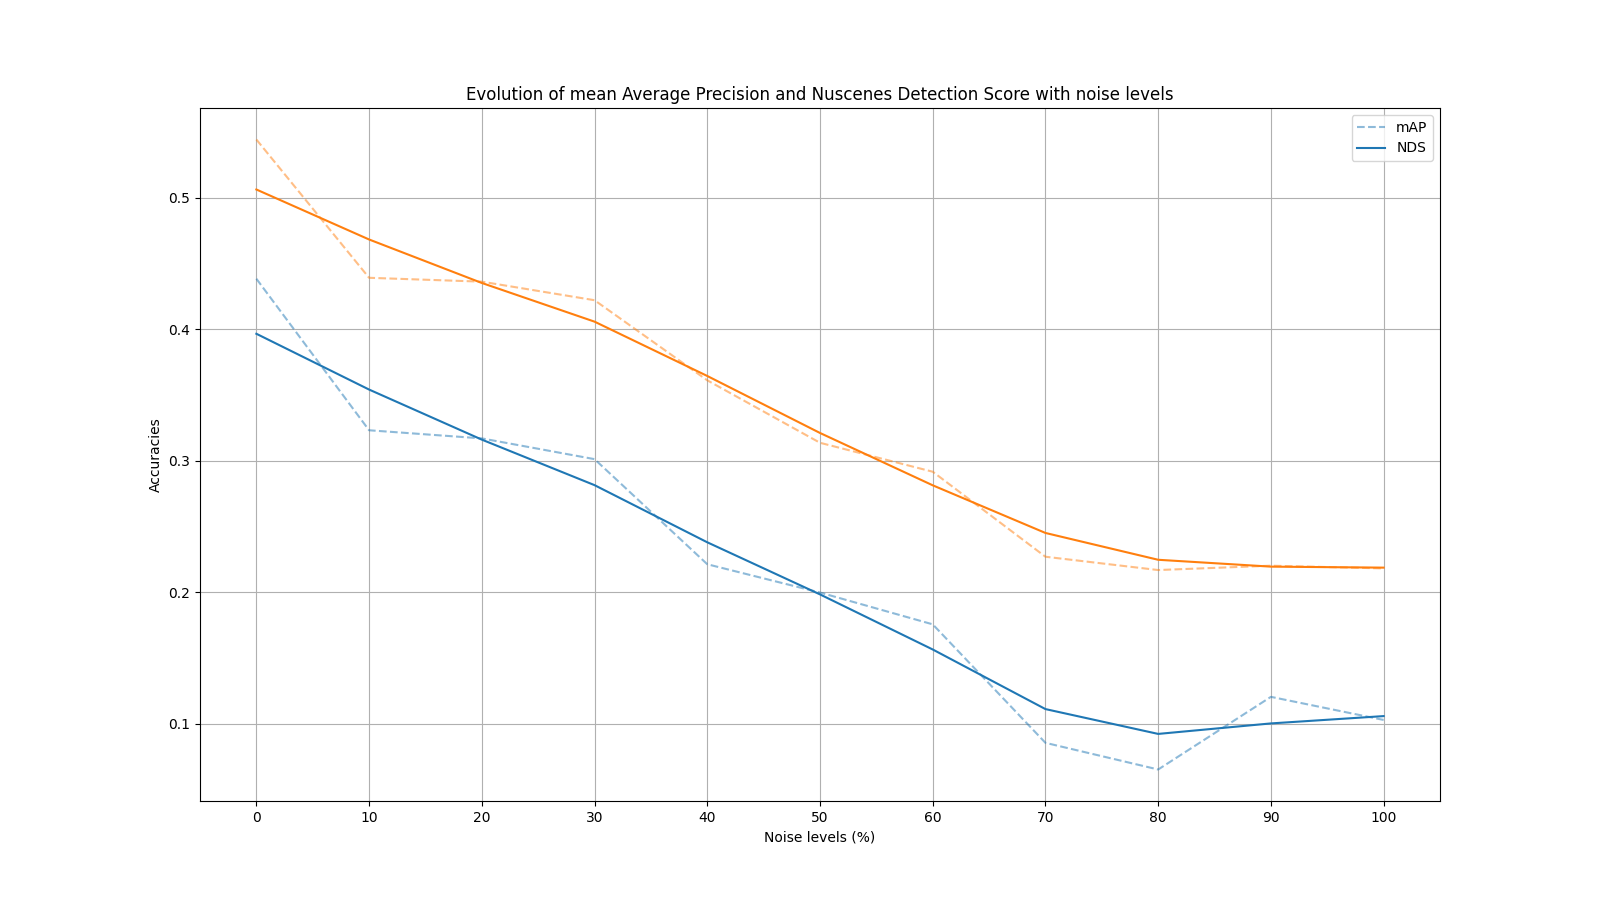
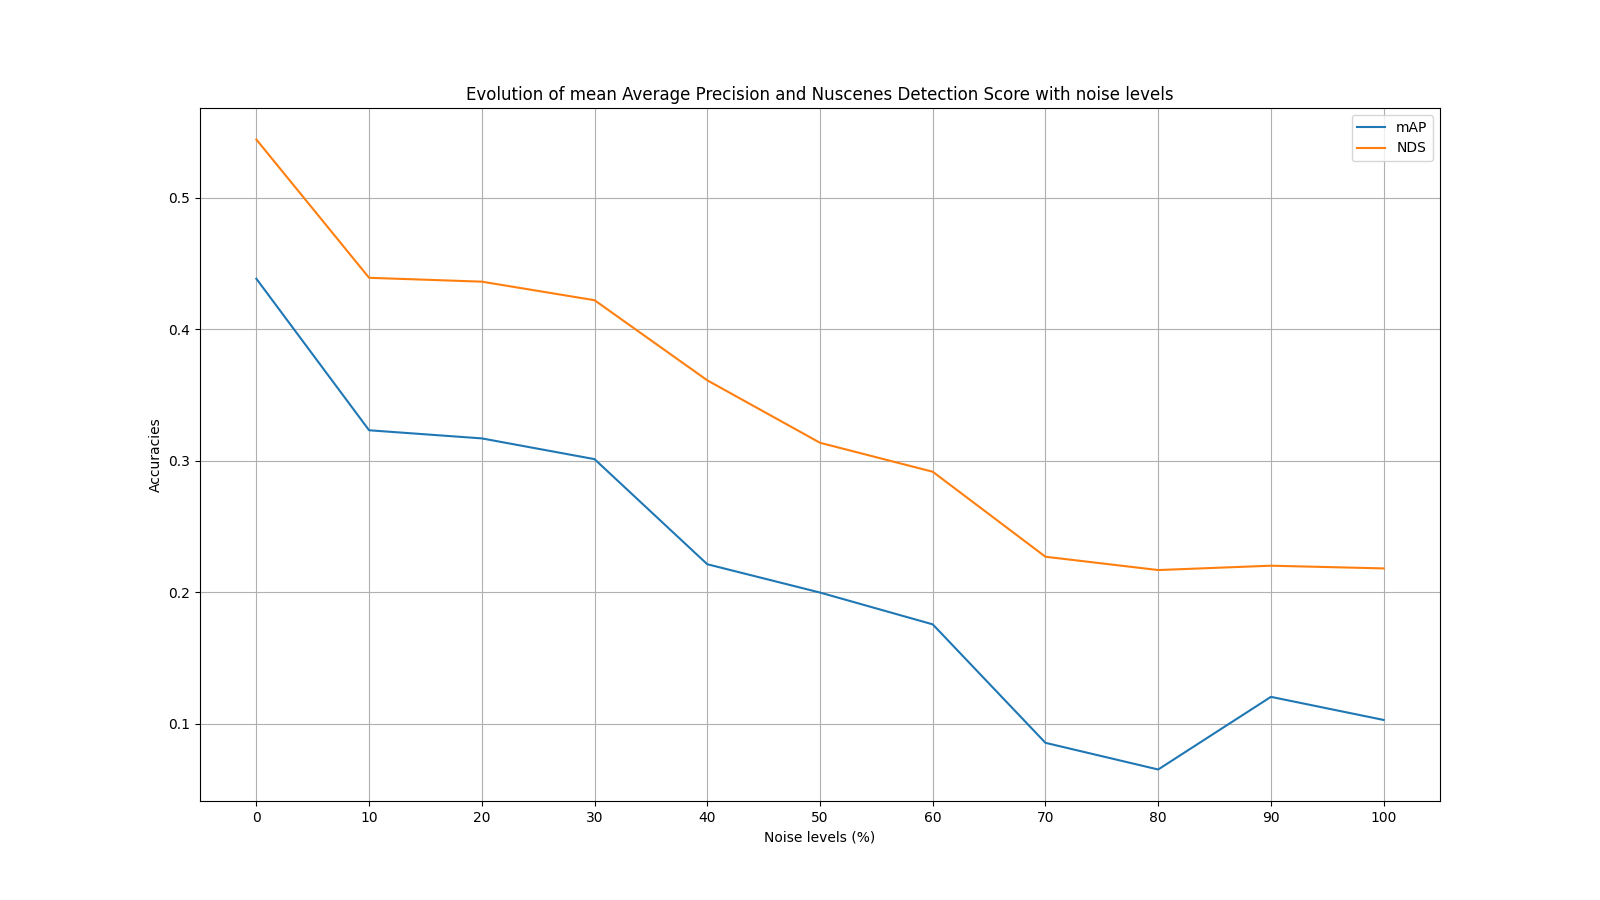
changed frontier output plots

diff --git a/data/viz_CRN_frontier.py b/data/viz_CRN_frontier.py
@@ -44,7 +44,7 @@ def accumulate_results(sensor):
     return mAP_list, NDS_list
 
 
-def create_figs(mAP_list, NDS_list, sensor):
+def create_figs(mAP_list, NDS_list, sensor, interp=False):
     outfolder=os.path.join('.','frontier_outputs','viz')
 
     # defining noise levels axis
@@ -52,22 +52,24 @@ def create_figs(mAP_list, NDS_list, sensor):
 
     ## mAP only
     plt.figure(figsize=(16, 9))
-
-    plt.plot(n_lvls, mAP_list, linestyle='--', color='tab:blue', alpha=0.5)
     
-    # n_lvls_smooth = np.linspace(0, 100, 100)  # 300 points for smoothness
-    # spline = make_interp_spline(n_lvls, mAP_list, k=2)
-    # mAP_list_smooth = spline(n_lvls_smooth)    
-    # plt.plot(n_lvls_smooth, mAP_list_smooth, linestyle='--', color='tab:blue', alpha=0.5)
-    mAP_list_smooth = gaussian_filter1d(mAP_list, sigma=1)
-    plt.plot(n_lvls, mAP_list_smooth, linestyle='-', color='tab:blue', alpha=1)
-    
+    if interp:
+        plt.plot(n_lvls, mAP_list, linestyle='--', color='tab:blue', alpha=0.5)
+        
+        # n_lvls_smooth = np.linspace(0, 100, 100)  # 300 points for smoothness
+        # spline = make_interp_spline(n_lvls, mAP_list, k=2)
+        # mAP_list_smooth = spline(n_lvls_smooth)    
+        # plt.plot(n_lvls_smooth, mAP_list_smooth, linestyle='--', color='tab:blue', alpha=0.5)
+        mAP_list_smooth = gaussian_filter1d(mAP_list, sigma=1)
+        plt.plot(n_lvls, mAP_list_smooth, linestyle='-', color='tab:blue', alpha=1)
+        plt.legend(['mAP','smoothed_mAP'])
+    else:
+        plt.plot(n_lvls, mAP_list, linestyle='-', color='tab:blue')
 
     plt.title('Evolution of mean Average Precision with noise levels')
     plt.xlabel("Noise levels (%)")
     plt.ylabel("mAP")
 
-    plt.legend(['mAP','smoothed_mAP'])
     plt.grid(True)
     plt.xticks(n_lvls)
     # plt.yticks([0,0.1,0.2,0.3,0.4,0.5,0.6,0.7,0.8,0.9,1])
@@ -79,21 +81,24 @@ def create_figs(mAP_list, NDS_list, sensor):
     ## NDS only
     plt.figure(figsize=(16, 9))
 
-    plt.plot(n_lvls, NDS_list, linestyle='--', color='tab:orange', alpha=0.5)
+    if interp:
+        plt.plot(n_lvls, NDS_list, linestyle='--', color='tab:orange', alpha=0.5)
     
-    # n_lvls_smooth = np.linspace(0, 100, 100)  # 300 points for smoothness
-    # spline = make_interp_spline(n_lvls, NDS_list, k=2)
-    # NDS_list_smooth = spline(n_lvls_smooth)    
-    # plt.plot(n_lvls_smooth, NDS_list_smooth, linestyle='--', color='tab:blue', alpha=0.5)
-    NDS_list_smooth = gaussian_filter1d(NDS_list, sigma=1)
-    plt.plot(n_lvls, NDS_list_smooth, linestyle='-', color='tab:orange', alpha=1)
-    
+        # n_lvls_smooth = np.linspace(0, 100, 100)  # 300 points for smoothness
+        # spline = make_interp_spline(n_lvls, NDS_list, k=2)
+        # NDS_list_smooth = spline(n_lvls_smooth)    
+        # plt.plot(n_lvls_smooth, NDS_list_smooth, linestyle='--', color='tab:blue', alpha=0.5)
+        NDS_list_smooth = gaussian_filter1d(NDS_list, sigma=1)
+        plt.plot(n_lvls, NDS_list_smooth, linestyle='-', color='tab:orange', alpha=1)
+        plt.legend(['NDS','smoothed_NDS'])
+    else:
+        plt.plot(n_lvls, NDS_list, linestyle='-', color='tab:orange', alpha=1)
+
 
     plt.title('Evolution of Nuscenes Detection Score with noise levels')
     plt.xlabel("Noise levels (%)")
     plt.ylabel("NDS")
 
-    plt.legend(['NDS','smoothed_NDS'])
     plt.grid(True)
     plt.xticks(n_lvls)
     # plt.yticks([0,0.1,0.2,0.3,0.4,0.5,0.6,0.7,0.8,0.9,1])
@@ -109,21 +114,24 @@ def create_figs(mAP_list, NDS_list, sensor):
     # plt.plot(n_lvls,mAP_list)
     # plt.plot(n_lvls,NDS_list)
 
-    plt.plot(n_lvls, mAP_list, linestyle='--', color='tab:blue', alpha=0.5)
-    plt.plot(n_lvls, mAP_list_smooth, linestyle='-', color='tab:blue', alpha=1)
-    plt.plot(n_lvls, NDS_list, linestyle='--', color='tab:orange', alpha=0.5)
-    plt.plot(n_lvls, NDS_list_smooth, linestyle='-', color='tab:orange', alpha=1)
+    if interp:
+        plt.plot(n_lvls, mAP_list, linestyle='--', color='tab:blue', alpha=0.5)
+        plt.plot(n_lvls, NDS_list, linestyle='--', color='tab:orange', alpha=0.5)
 
+        plt.plot(n_lvls, mAP_list_smooth, linestyle='-', color='tab:blue', alpha=1)
+        plt.plot(n_lvls, NDS_list_smooth, linestyle='-', color='tab:orange', alpha=1)
+        plt.legend(['mAP','smoothed_mAP','NDS','smoothed_NDS'])
 
-
-
+    else:
+        plt.plot(n_lvls, mAP_list, linestyle='-', color='tab:blue', alpha=1)
+        plt.plot(n_lvls, NDS_list, linestyle='-', color='tab:orange', alpha=1)
+        plt.legend(['mAP','NDS'])
 
 
     plt.title('Evolution of mean Average Precision and Nuscenes Detection Score with noise levels')
     plt.xlabel("Noise levels (%)")
     plt.ylabel("Accuracies")
 
-    plt.legend(['mAP','NDS'])
     plt.grid(True)
     plt.xticks(n_lvls)
 
@@ -136,9 +144,7 @@ def create_figs(mAP_list, NDS_list, sensor):
 if __name__ == '__main__':
 
     mAP_list, NDS_list = accumulate_results('cam')
-    create_figs(mAP_list, NDS_list, 'cam')
+    create_figs(mAP_list, NDS_list, 'cam', False)
 
     mAP_list, NDS_list = accumulate_results('radar')
-    print(mAP_list)
-    print(NDS_list)
-    create_figs(mAP_list, NDS_list, 'radar')
+    create_figs(mAP_list, NDS_list, 'radar', False)
